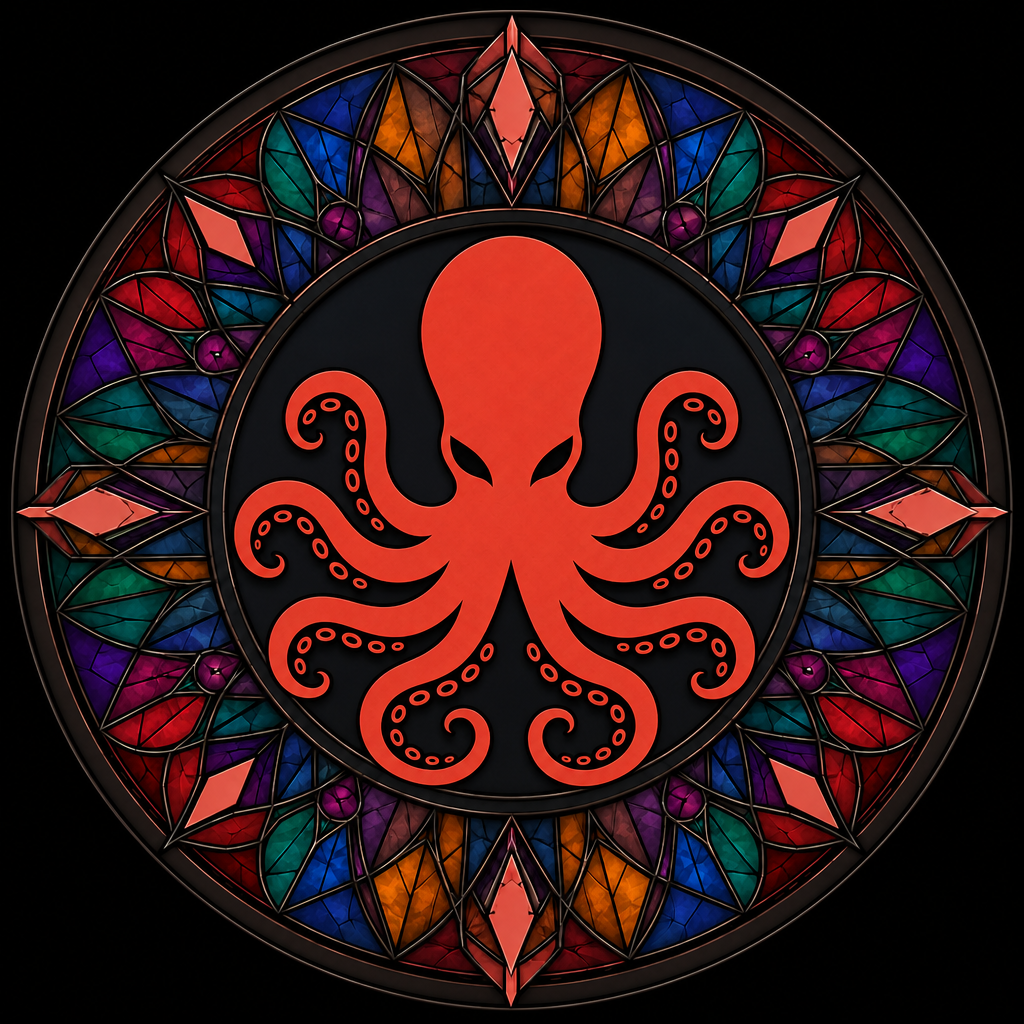
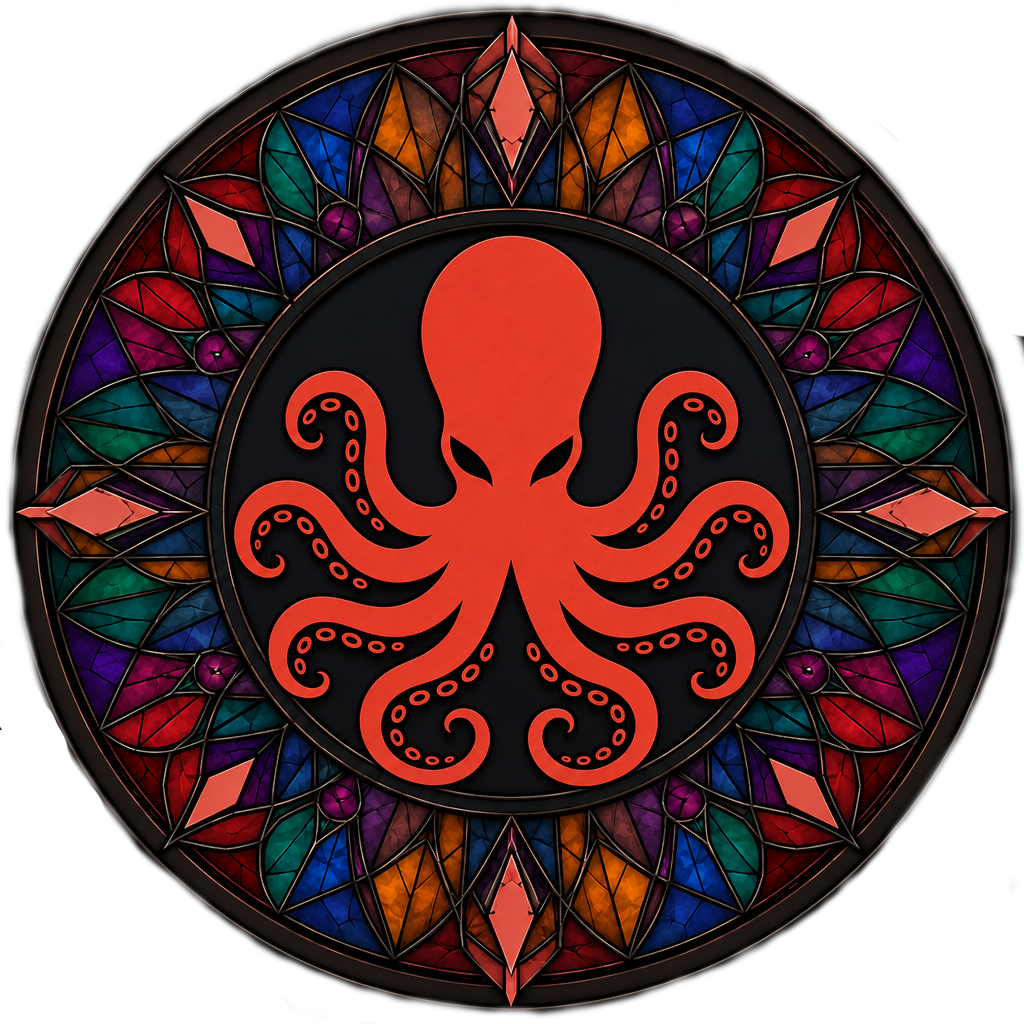
Shutter: stop above live feed, green dot trigger, transparent sigil

Changed region(s): [[0.0, 0.0, 1.0, 1.0]]

diff --git a/dashboard.html b/dashboard.html
@@ -911,11 +911,18 @@
         </div>
       </div>
 
+      <!-- Presentation shutter — click green dot to open/close -->
+      <div id="shutter">
+        <img src="assets/tidewise-sigil.png" alt="" draggable="false" />
+      </div>
+
+      </div><!-- /financialSection -->
+
       <!-- Live Feed -->
       <div class="feed-wrap">
         <div class="feed-top">
           <div class="feed-top-left">
-            <div class="live-dot"></div>
+            <div class="live-dot" id="shutterTrigger" style="cursor:pointer;"></div>
             <div class="feed-label">Live Activity Feed</div>
           </div>
           <div class="feed-count" id="feedCount"></div>
@@ -925,16 +932,9 @@
         </div>
       </div>
 
-      <!-- Presentation shutter — click "Clients" to open, click anywhere to close -->
-      <div id="shutter">
-        <img src="assets/tidewise-sigil.png" alt="" draggable="false" />
-      </div>
-
-      </div><!-- /financialSection -->
-
       <!-- Clients section -->
       <div class="clients-header">
-        <div class="section-label" id="shutterTrigger" style="cursor:default;user-select:none;">Clients</div>
+        <div class="section-label">Clients</div>
         <div class="clients-controls">
           <div class="segment">
             <button class="seg-btn active" id="twToggle">Tidewise</button>